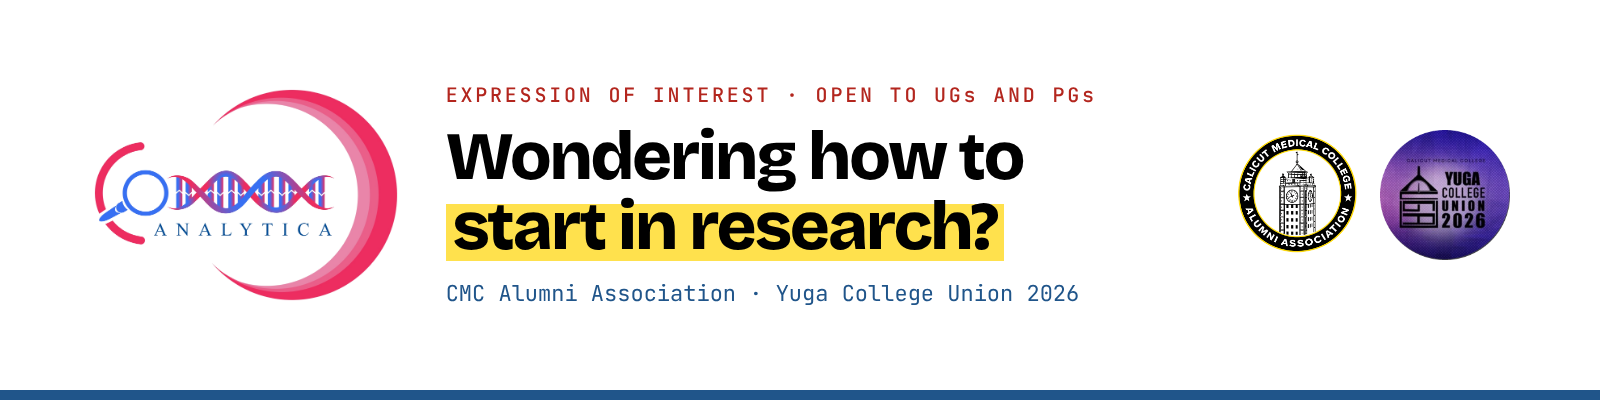
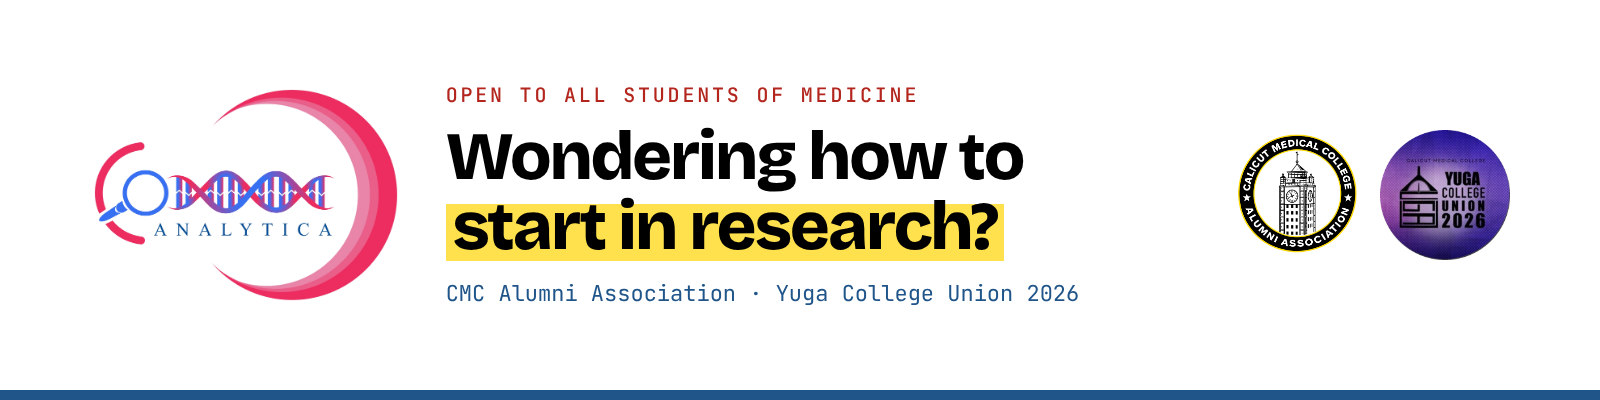
EOI: open to all students of medicine; faculty and guides welcome

Changed region(s): [[0.2812, 0.21, 0.6875, 0.27]]

diff --git a/editorial/bilmc/research/eoi/poster.html b/editorial/bilmc/research/eoi/poster.html
@@ -2,7 +2,7 @@
 *{box-sizing:border-box;margin:0;padding:0}body{background:#777}
 .p{width:1080px;height:1350px;position:relative;overflow:hidden;background:#fff;padding:0 88px;display:flex;flex-direction:column;font-family:'Times New Roman',serif;color:#111}
 .hd{margin-top:56px;display:flex;justify-content:space-between;font:400 21px Mono,monospace;letter-spacing:.1em;color:#20558A;padding-bottom:12px;border-bottom:1px solid #20558A;position:relative}.hd:after{content:'';position:absolute;left:0;right:0;bottom:-6px;border-bottom:3px solid #20558A}
-.kick{margin-top:14px;font:500 24px Mono,monospace;letter-spacing:.12em;color:#B3261E}
+.kick{margin-top:14px;font:500 22px Mono,monospace;letter-spacing:.12em;color:#B3261E}
 h1{font:800 92px/1.0 Bricolage,Arial;letter-spacing:-.035em;margin-top:20px}
 mark{background:linear-gradient(transparent 22%,#FFE14D 22%,#FFE14D 92%,transparent 92%);color:inherit;padding:0 .1em}
 .lead{font:400 38px/1.32 'Times New Roman',serif;margin-top:22px;max-width:880px}
@@ -13,7 +13,7 @@ mark{background:linear-gradient(transparent 22%,#FFE14D 22%,#FFE14D 92%,transpar
 .logo{height:150px;margin-top:26px;align-self:flex-start}
 .lgs{position:absolute;left:88px;right:88px;bottom:78px;display:flex;align-items:center;gap:16px}.lgs img{height:64px}.lgs span{font:500 17px Mono,monospace;color:#444;margin-left:8px}</style>
 <div class="p" id="poster"><div class="hd"><span>CMC ANALYTICA · RESEARCH</span><span>EXPRESSION OF INTEREST</span></div>
-<img class="logo" src="../../../assets/cmc-analytica-logo.png"><div class="kick">FOR UGs AND PGs</div>
+<img class="logo" src="../../../assets/cmc-analytica-logo.png"><div class="kick">OPEN TO ALL STUDENTS OF MEDICINE</div>
 <h1>Wondering how to <mark>start in research?</mark></h1>
 <div class="lead">Understand the basics. Work towards residency or future research. We are here to understand <b>you</b>: your questions, your queries, your preferences.</div>
 <div class="chips"><span>Learn the basics</span><span>Find a guide</span><span>Join a project</span><span>Your own topic</span></div>

diff --git a/editorial/bilmc/research/eoi/header.html b/editorial/bilmc/research/eoi/header.html
@@ -3,4 +3,4 @@
 .h{width:1600px;height:400px;background:#fff;position:relative;overflow:hidden;display:flex;align-items:center;padding:0 90px;gap:44px;border-bottom:10px solid #20558A}
 .h>img{height:220px;flex:none}.t .k{font:500 20px Mono,monospace;letter-spacing:.14em;color:#B3261E}.t{flex:1;min-width:0}.t h1{font:800 68px/1.02 Bricolage,Arial;letter-spacing:-.035em;margin-top:14px}
 mark{background:linear-gradient(transparent 22%,#FFE14D 22%,#FFE14D 92%,transparent 92%);color:inherit;padding:0 .1em}.t .s{font:400 22px Mono,monospace;color:#20558A;margin-top:18px}.lg2{margin-left:auto;display:flex;gap:18px;align-items:center}.lg2 img{height:130px}</style>
-<div class="h" id="h"><img src="../../../assets/cmc-analytica-logo.png"><div class="t"><div class="k">EXPRESSION OF INTEREST · OPEN TO UGs AND PGs</div><h1>Wondering how to <mark>start in research?</mark></h1><div class="s">CMC Alumni Association · Yuga College Union 2026</div></div><div class="lg2"><img src="../../../assets/cmc-alumni-logo.png"><img src="../../../assets/yuga-college-union-logo.png"></div></div>
+<div class="h" id="h"><img src="../../../assets/cmc-analytica-logo.png"><div class="t"><div class="k">OPEN TO ALL STUDENTS OF MEDICINE</div><h1>Wondering how to <mark>start in research?</mark></h1><div class="s">CMC Alumni Association · Yuga College Union 2026</div></div><div class="lg2"><img src="../../../assets/cmc-alumni-logo.png"><img src="../../../assets/yuga-college-union-logo.png"></div></div>

diff --git a/editorial/bilmc/research/eoi/writeup.md b/editorial/bilmc/research/eoi/writeup.md
@@ -6,7 +6,7 @@ CMC Analytica: Expression of Interest (Research)
 ## Form description (paste under the title)
 Wondering how to start in research?
 
-CMC Analytica is open to UGs and PGs: everyone who is here to research, or trying to start out. How do you understand the basics, and work towards residency or future research? CMC Analytica is here to understand you: your questions, your queries and your preferences.
+CMC Analytica is open to all students of medicine, UGs and PGs, whether you are just starting out or already researching. Students come first, and faculty and guides are welcome too. How do you understand the basics, and work towards residency or future research? CMC Analytica is here to understand you: your questions, your queries and your preferences.
 
 If you have topics or domains you want to work on, tell us, and we will build with you.
 
@@ -54,7 +54,7 @@ CMC Analytica is officially launched.
 
 The CMC Alumni Association and the Yuga College Union 2026 of Calicut Medical College launched CMC Analytica to bring academic and higher research to the front of our college, and to help students understand the dynamics of research.
 
-It is open to UGs and PGs: everyone who is here to research, or trying to start out. We hope to collaborate more and more, across years, departments and projects.
+It is open to all students of medicine, UGs and PGs, everyone who is here to research or trying to start out. Students come first, and faculty and guides are welcome too. We hope to collaborate more and more, across years, departments and projects.
 
 How it works:
 1. Express your interest. We want to understand you and the domains you care about.
@@ -71,7 +71,7 @@ Union representatives: Nayan Menon (Chairperson) and Benjamin Thomas (Vice Chair
 ## EOI poster caption (post with the EOI poster)
 Wondering how to start in research?
 
-CMC Analytica is open to UGs and PGs. Whether you are just starting out or already researching, we want to understand your questions, your queries and your preferences, and to collaborate with you more and more.
+CMC Analytica is open to all students of medicine, UGs and PGs. Students come first, and faculty and guides are welcome too. Whether you are just starting out or already researching, we want to understand your questions, your queries and your preferences, and to collaborate with you more and more.
 
 Got a topic or domain in mind? Tell us, and we will build with you.
 
